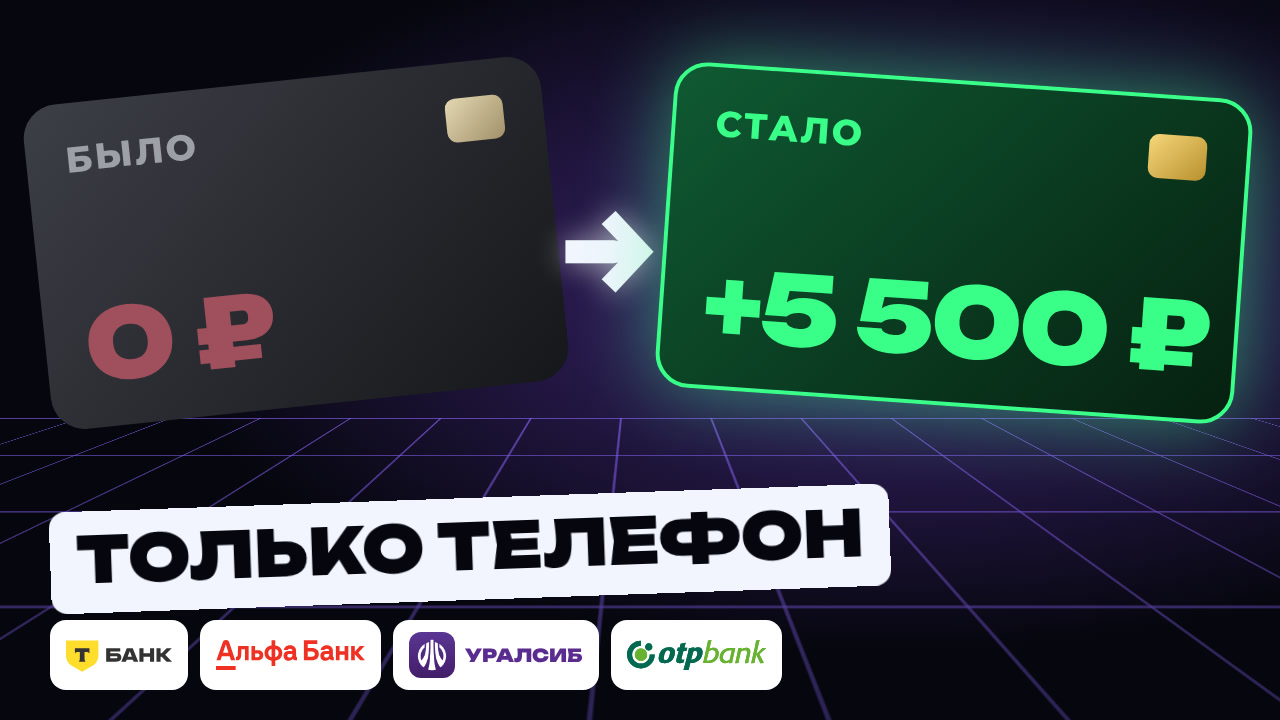
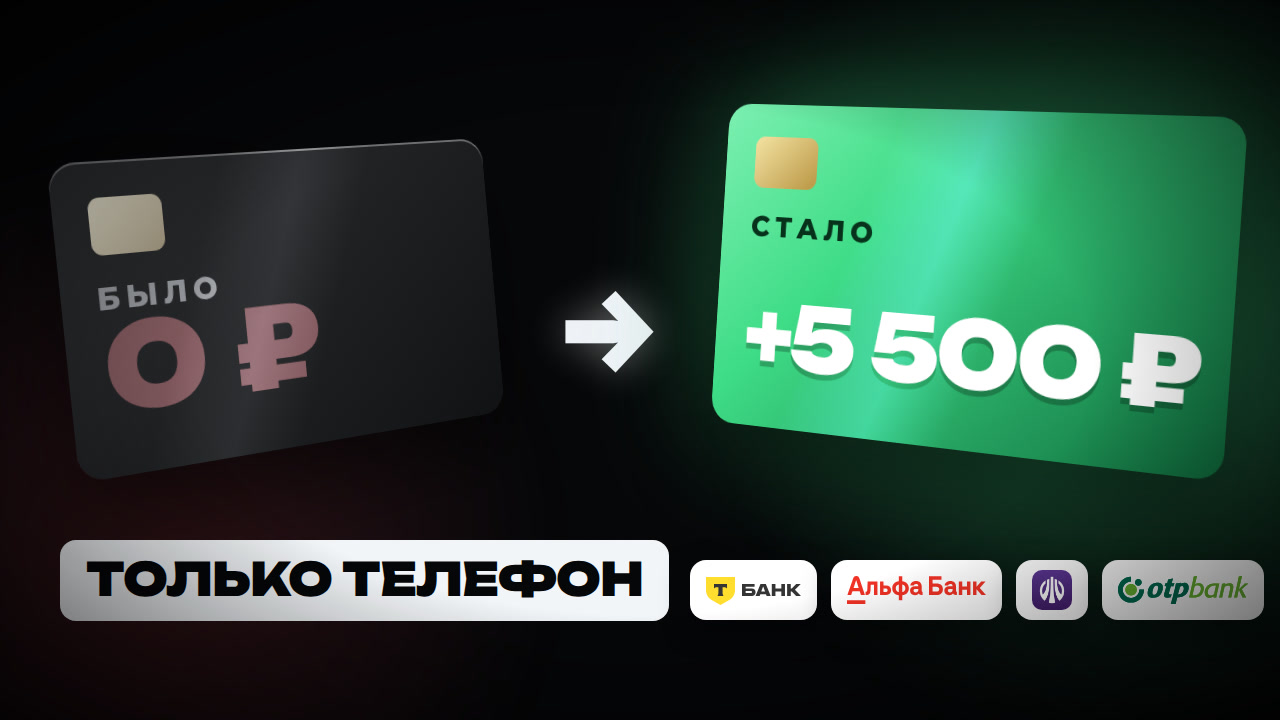
Video #1: thumbnail v13 chosen by owner
Claude-Session: https://claude.ai/code/session_01RfCfKDkbyGyDNmw4SWPkFj

diff --git a/youtube/01-bank-tierlist/publish.md b/youtube/01-bank-tierlist/publish.md
@@ -2,7 +2,7 @@
 
 **Название:** Тир-лист банков, которые платят прямо сейчас
 
-**Превью:** `thumbnail.jpg` (v8 «было 0 ₽ → стало +5 500 ₽»). Для «Теста и сравнения» в
+**Превью:** `thumbnail.jpg` = v13 (стиль «Студия», «было 0 ₽ → стало +5 500 ₽», выбрано 08.10; прежнее v8 — `thumb/thumbnail_v8_prev.jpg`). Для «Теста и сравнения» в
 YouTube Studio можно добавить `thumb/thumb_v9.png` и любимый из v2/v4/v6.
 
 ## Описание (вставить целиком)
